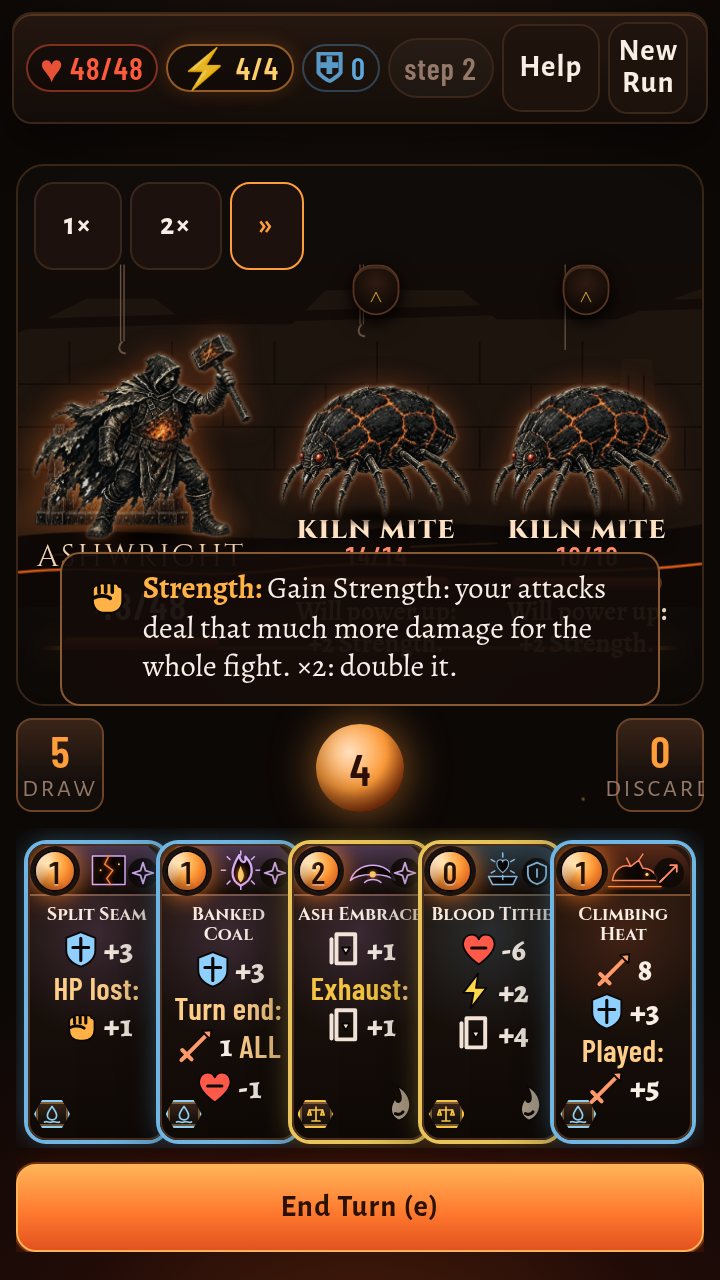
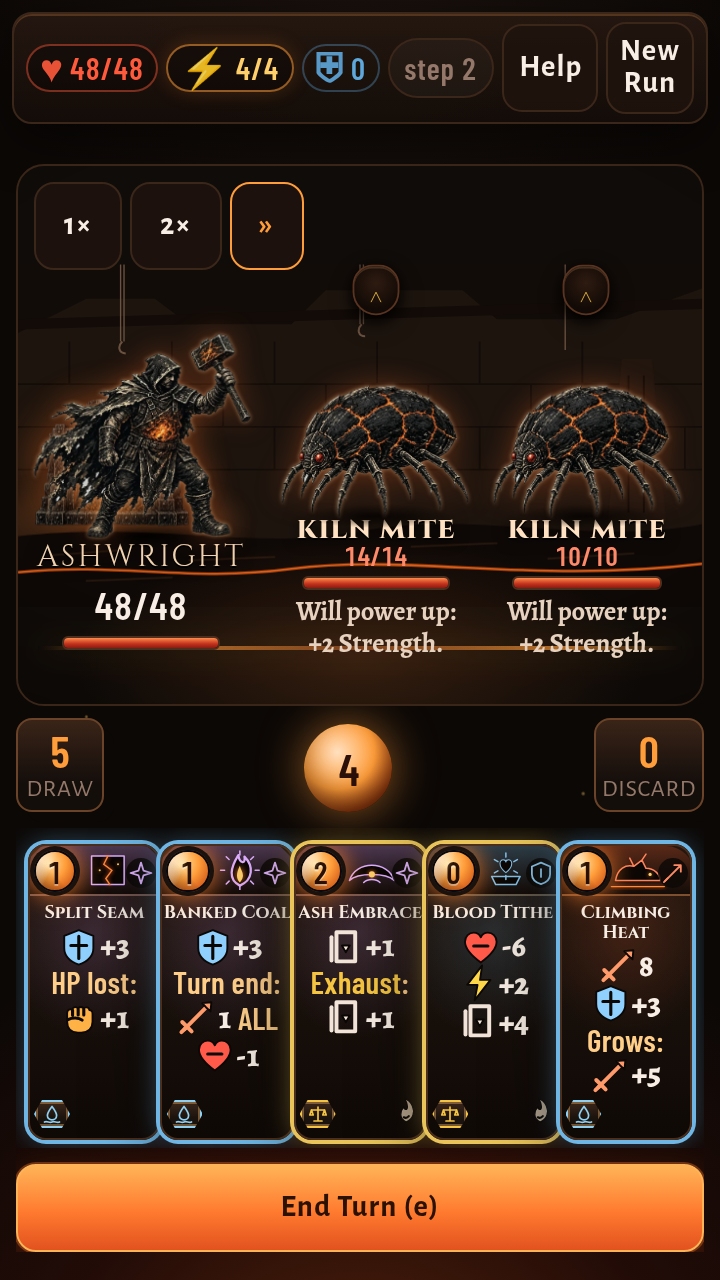
pr29: #53 round-2 shots (5e941ce) and mapping

diff --git a/pr29/card-glyph-mapping.md b/pr29/card-glyph-mapping.md
@@ -129,9 +129,9 @@ Line counts are measured in a real browser by scripts/dev/viewport-check.mjs at 
 | pummel (Hail of Blows) | quenched | Deal 2 damage to the enemy 4 times. Exhaust this card for the rest of the fight. Gain 3 Block. | [damage] 2×4 / [block] +3 / (corner exhaust flame) | 2 | 2 |
 | pummel (Hail of Blows) | redhot | Deal 3 damage to the enemy 4 times. Exhaust this card for the rest of the fight. Lose 2 HP. | [damage] 3×4 / [hp] -2 / (corner exhaust flame) | 2 | 2 |
 | pummel (Hail of Blows) | balanced | Deal 2 damage to the enemy 4 times. Exhaust this card for the rest of the fight. Draw 1 card. | [damage] 2×4 / [draw] +1 / (corner exhaust flame) | 2 | 2 |
-| rampage (Climbing Heat) | — | Deal 8 damage. This card gains +5 damage permanently each time you play it. | [damage] 8 / **Played:** / ↳ [damage] +5 | 3 | 3 |
-| rampage (Climbing Heat) | quenched | Deal 8 damage. This card gains +5 damage permanently each time you play it. Gain 3 Block. | [damage] 8 / [block] +3 / **Played:** / ↳ [damage] +5 | 4 | 4 |
-| rampage (Climbing Heat) | balanced | Deal 8 damage. This card gains +5 damage permanently each time you play it. Draw 1 card. Exhaust this card for the rest of the fight. | [damage] 8 / [draw] +1 / **Played:** / ↳ [damage] +5 / (corner exhaust flame) | 4 | 4 |
+| rampage (Climbing Heat) | — | Deal 8 damage. This card gains +5 damage permanently each time you play it. | [damage] 8 / **Grows:** / ↳ [damage] +5 | 3 | 3 |
+| rampage (Climbing Heat) | quenched | Deal 8 damage. This card gains +5 damage permanently each time you play it. Gain 3 Block. | [damage] 8 / [block] +3 / **Grows:** / ↳ [damage] +5 | 4 | 4 |
+| rampage (Climbing Heat) | balanced | Deal 8 damage. This card gains +5 damage permanently each time you play it. Draw 1 card. Exhaust this card for the rest of the fight. | [damage] 8 / [draw] +1 / **Grows:** / ↳ [damage] +5 / (corner exhaust flame) | 4 | 4 |
 | rupture (Split Seam) | — | Gain Rupture: whenever a card makes you lose HP, gain 1 Strength. | **HP lost:** / ↳ [strength] +1 | 2 | 2 |
 | rupture (Split Seam) | quenched | Gain Rupture: whenever a card makes you lose HP, gain 1 Strength. Gain 3 Block. | [block] +3 / **HP lost:** / ↳ [strength] +1 | 3 | 3 |
 | rupture (Split Seam) | balanced | Gain Rupture: whenever a card makes you lose HP, gain 1 Strength. Draw 1 card. Exhaust this card for the rest of the fight. | [draw] +1 / **HP lost:** / ↳ [strength] +1 / (corner exhaust flame) | 3 | 3 |
@@ -155,6 +155,6 @@ Line counts are measured in a real browser by scripts/dev/viewport-check.mjs at 
 | offering (Blood Tithe) | — | Lose 6 HP. Gain 2 Energy. Draw 3 cards. | [hp] -6 / [energy] +2 / [draw] +3 | 3 | 3 |
 | offering (Blood Tithe) | quenched | Lose 6 HP. Gain 2 Energy. Draw 3 cards. Gain 3 Block. | [block] +3 / [hp] -6 / [energy] +2 / [draw] +3 | 4 | 4 |
 | offering (Blood Tithe) | balanced | Lose 6 HP. Gain 2 Energy. Draw 3 cards. Draw 1 card. Exhaust this card for the rest of the fight. | [hp] -6 / [energy] +2 / [draw] +4 / (corner exhaust flame) | 3 | 3 |
-| reaper (Ash Harvest) | — | Deal 4 damage to ALL enemies. Heal HP equal to the damage dealt. | [damage] 4 ALL / "Heal that" | 2 | 2 |
-| reaper (Ash Harvest) | quenched | Deal 4 damage to ALL enemies. Heal HP equal to the damage dealt. Gain 3 Block. | [damage] 4 ALL / [block] +3 / "Heal that" | 3 | 3 |
-| reaper (Ash Harvest) | balanced | Deal 4 damage to ALL enemies. Heal HP equal to the damage dealt. Draw 1 card. Exhaust this card for the rest of the fight. | [damage] 4 ALL / [draw] +1 / "Heal that" / (corner exhaust flame) | 3 | 3 |
+| reaper (Ash Harvest) | — | Deal 4 damage to ALL enemies. Heal HP equal to the damage dealt. | [damage] 4 ALL / "Heal that much" | 2 | 2 |
+| reaper (Ash Harvest) | quenched | Deal 4 damage to ALL enemies. Heal HP equal to the damage dealt. Gain 3 Block. | [damage] 4 ALL / "Heal that much" / [block] +3 | 3 | 3 |
+| reaper (Ash Harvest) | balanced | Deal 4 damage to ALL enemies. Heal HP equal to the damage dealt. Draw 1 card. Exhaust this card for the rest of the fight. | [damage] 4 ALL / "Heal that much" / [draw] +1 / (corner exhaust flame) | 3 | 3 |
